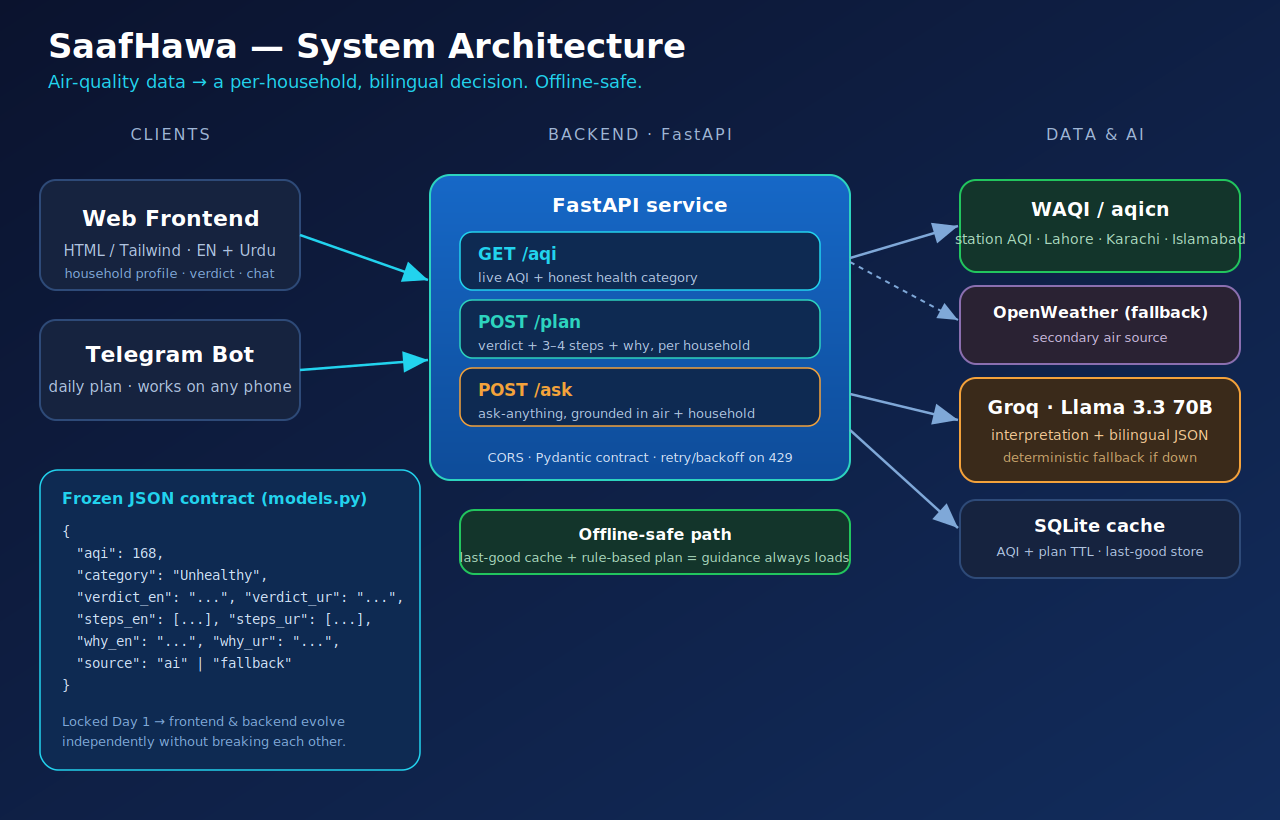
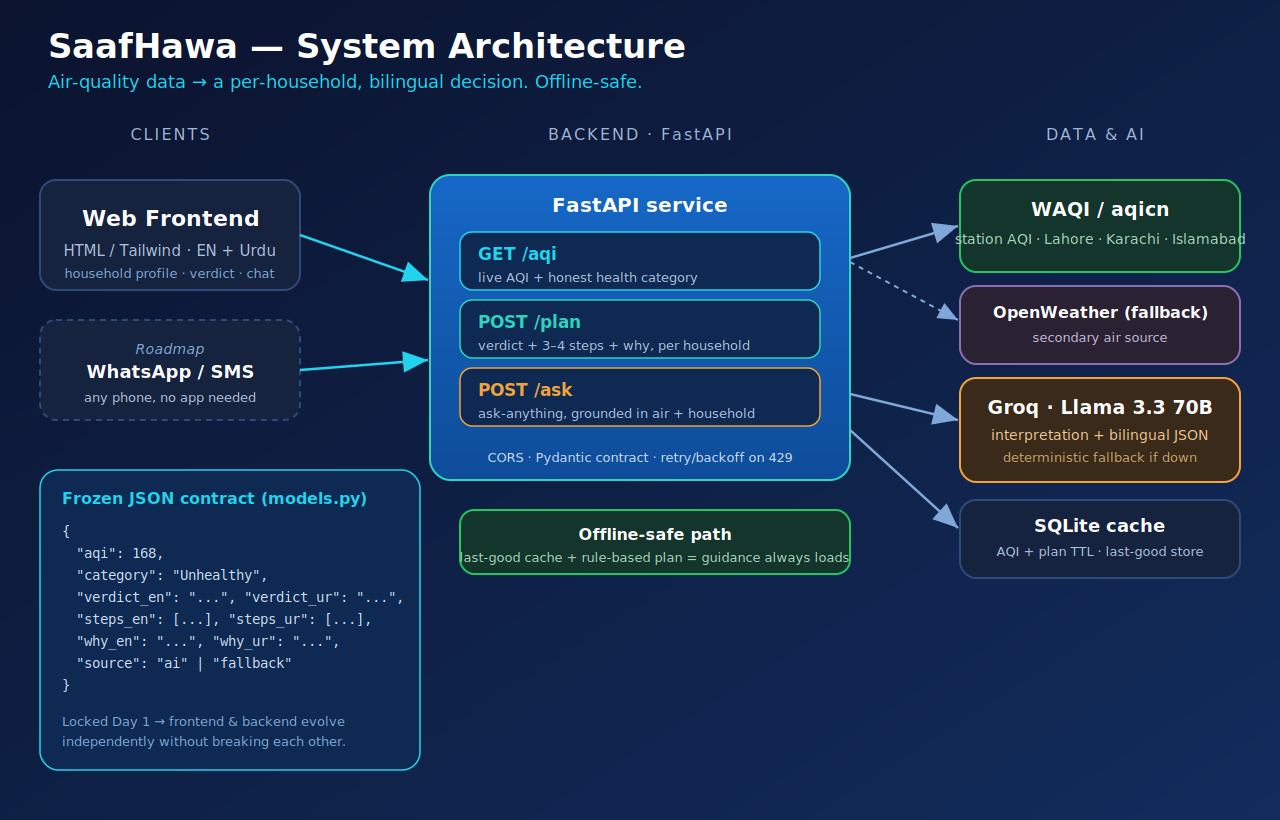
Pakistan-only data guard; single Location select; remove Telegram from materials; update README

Changed region(s): [[0.0312, 0.3963, 0.2188, 0.5183]]

diff --git a/README.md b/README.md
@@ -3,12 +3,13 @@
 # SaafHawa 🌫️ → ✅
 ### صاف ہوا
 
-**Air-quality data, turned into a decision you can act on — in your language.**
+**Air-quality apps show a number. SaafHawa tells you what to do.**
 
-![Built with FastAPI](https://img.shields.io/badge/backend-FastAPI-009688)
+![Backend](https://img.shields.io/badge/backend-FastAPI-009688)a
 ![AI](https://img.shields.io/badge/AI-Groq%20·%20Llama%203.3%2070B-F4A23B)
 ![Bilingual](https://img.shields.io/badge/EN%20+%20اردو-bilingual-16B6D4)
-![License](https://img.shields.io/badge/license-MIT-blue)
+![Pakistan](https://img.shields.io/badge/built%20for-Pakistan-0F7268)
+![Hackathon](https://img.shields.io/badge/AI%20for%20Civic%20Innovation-2026-1668C7)
 
 </div>
 
@@ -21,68 +22,89 @@ Built for caregivers in air-sensitive households across **Lahore, Karachi & Isla
 families with young children, elderly members, pregnant members, or people with
 pollen, asthma, heart/lung conditions.
 
-> Submitted to the **AI for Civic Innovation Hackathon 2026** (Code for Pakistan ×
-> Grey Software × Scrimba × FAST NUCES Islamabad).
-> **Themes:** Technology for Civic Good · Open Data & Access to Information.
+---
+
+## 💡 Inspiration
+ 
+Pakistan's cities sit near the top of every "most polluted air" list in the world,
+and the people who pay the price are the ones least equipped to read the data —
+parents deciding on a school run, an elderly relative breathing through a smoggy
+morning, a pregnant woman, a delivery rider working outdoors all day, anyone with
+asthma or pollen allergy.
+ 
+Public AQI data already exists. The gap isn't measurement — it's **interpretation**.
+Today the answer to *"is the air safe for my child right now?"* is a three-digit
+number and a color, in English, with no idea what to actually do. SaafHawa closes
+that last mile.
+ 
+> **Themes:** Technology for Civic Good · Open Data & Access to Information
+> **Hackathon:** AI for Civic Innovation 2026 — Code for Pakistan × FAST NUCES Islamabad × Grey Software × Scrimba
 
 ---
 
 ## ✨ Features
 
-- 📍 **Area-level AQI** for Lahore, Karachi & Islamabad with honest US-EPA health categories
-- 👨👩👧 **Household profiles** — child · elderly · pregnant · allergies · heart/lung · outdoor worker — each changes the advice
-- 🤖 **Live AI action plan** — one-line verdict + 3–4 concrete steps + why
-- 🌐 **Bilingual by default** — every output in English **and** Urdu (Nastaliq)
+- 📍 **Live AQI** for Lahore · Karachi · Islamabad with honest US-EPA categories
+- 👨👩👧 **Household profiles** — child, elderly, pregnant, allergies, heart/lung, outdoor worker — each reshapes the advice
+- 🤖 **Bilingual AI action plan** — one-line verdict + 3–4 concrete steps + the why
+- 🌐 **English and Urdu** by default, rendered in Nastaliq
 - 💬 **Ask-anything chat** — grounded in your air level and household
-- 🛟 **Offline-safe** — graceful fallback so guidance always loads, even if APIs are down
+- 🛟 **Offline-safe** — graceful bilingual fallback so guidance always loads
+- 🇵🇰 **Pakistan-only data** — a 3-layer guard rejects foreign stations (no cross-border leaks)
 
 ## 🏗️ Architecture
 
 ```
-Browser / Telegram  →  FastAPI backend  →  WAQI air data  ┐
-                          /aqi /plan /ask                 ├→ SQLite cache
+Browser (3 pages)  →  FastAPI backend  →  WAQI air data  ┐
+                          /aqi /plan /ask                 ├→ SQLite cache (PK-only)
                                  ↓                         ┘
                        Groq · Llama 3.3 70B  →  bilingual verdict JSON (EN + اردو)
 ```
 
-Three endpoints, one frozen JSON contract (see `backend/models.py`), with a
-deterministic fallback at every hop so a demo never blanks.
-
-Full diagram: [`assets/architecture.png`](assets/architecture.png) · Request flow: [`assets/workflow.png`](assets/workflow.png)
+Three endpoints, one frozen JSON contract (`backend/models.py`), and a
+deterministic fallback at every hop so the demo never blanks.
+ 
+Full diagrams: [`assets/architecture.png`](assets/architecture.png) · [`assets/workflow.png`](assets/workflow.png)
+ 
 
 ## 🚀 Quick start
 
 > Tested on Python 3.10 – 3.13 (Windows, macOS, Linux).
 
-```bash
-git clone https://github.com/<your-handle>/saafhawa.git
-cd saafhawa/backend
-
+### 1. Backend
+ 
+```powershell
+cd backend
 python -m venv .venv
-# Windows PowerShell:
-.venv\Scripts\Activate.ps1
-# macOS / Linux:
-source .venv/bin/activate
-
+.venv\Scripts\Activate.ps1                # macOS/Linux: source .venv/bin/activate
 python -m pip install -r requirements.txt
-copy .env.example .env       # macOS/Linux: cp .env.example .env
+copy .env.example .env                    # paste tokens (optional)
 python -m uvicorn main:app --reload --port 8000
 ```
 
 Open **http://localhost:8000/docs** for live, clickable API docs.
 
-> **No tokens yet? It still runs.** `/aqi` serves an offline estimate and `/plan`
-> + `/ask` use a deterministic bilingual fallback — so the frontend always renders.
-
-### Free tokens (no card)
+### 2. Frontend
+ 
+In a **second** terminal:
+ 
+```powershell
+cd frontend
+python -m http.server 9000
+```
+ 
+Open **http://localhost:9000** → Home page. Click **Launch the app →** for the tool.
+ 
+### Free tokens (no card needed)
+ 
 | Service | Where | Used for |
 |---|---|---|
-| WAQI / aqicn | https://aqicn.org/data-platform/token/ | real station AQI |
+| WAQI / aqicn | https://aqicn.org/data-platform/token/ | real Pakistani station AQI |
 | Groq (Llama 3.3 70B) | https://console.groq.com/keys | bilingual AI interpretation |
-| OpenWeather *(optional)* | https://openweathermap.org/api/air-pollution | fallback air source |
-
-Paste the keys into `backend/.env`, then restart uvicorn.
-
+ 
+> No tokens? **It still runs.** Both the API and the frontend use a deterministic
+> bilingual fallback so guidance is shown even with zero internet.
+ 
 ## 📡 API
 
 | Method | Path | Body | Returns |
@@ -90,19 +112,21 @@ Paste the keys into `backend/.env`, then restart uvicorn.
 | `GET` | `/aqi?area=lahore` | – | `AqiResponse` |
 | `POST` | `/plan` | `{ area, household }` | `PlanResponse` |
 | `POST` | `/ask` | `{ area, household, question }` | `AskResponse` |
-
-`household` flags (all optional, default `false`): `child` · `elderly` · `pregnant` · `allergies` · `heart_lung` · `outdoor_worker`.
-
+ 
+**Areas** (Pakistan only): `lahore` · `karachi` · `islamabad`
+ 
+**Household flags** (all optional, default `false`):
+`child` · `elderly` · `pregnant` · `allergies` · `heart_lung` · `outdoor_worker`
+ 
 **Try it**
 ```bash
 curl -X POST http://localhost:8000/plan ^
   -H "Content-Type: application/json" ^
   -d "{\"area\":\"lahore\",\"household\":{\"child\":true,\"allergies\":true}}"
 ```
-
+ 
 <details>
 <summary>Sample response</summary>
-
 ```json
 {
   "area": "lahore",
@@ -110,65 +134,101 @@ curl -X POST http://localhost:8000/plan ^
   "category": "Unhealthy",
   "verdict_en": "Keep your child indoors until noon.",
   "verdict_ur": "بچے کو دوپہر تک گھر کے اندر رکھیں۔",
-  "steps_en": ["Close windows during peak hours", "Mask the school run", "Rinse off pollen after coming inside"],
-  "steps_ur": ["صبح و شام کھڑکیاں بند رکھیں", "اسکول جاتے وقت ماسک پہنائیں", "اندر آنے کے بعد چہرہ دھوئیں"],
+  "steps_en": ["Close windows during peak hours", "Mask the school run",
+               "Rinse off pollen after coming inside"],
+  "steps_ur": ["صبح و شام کھڑکیاں بند رکھیں", "اسکول جاتے وقت ماسک پہنائیں",
+               "اندر آنے کے بعد چہرہ دھوئیں"],
   "why_en": "Sensitive members react to fine particles well before healthy adults feel anything.",
   "why_ur": "باریک ذرات صحت مند بالغ سے پہلے حساس افراد کو متاثر کرتے ہیں۔",
   "source": "ai"
 }
 ```
-
+ 
 </details>
+---
 
-## 🧠 The AI part
+## 🧠 The AI Integration
 
-Groq's Llama 3.3 70B (OpenAI-compatible API) interprets the AQI in context of a
-specific household and emits a strict bilingual verdict JSON. Why AI fits here:
-turning a number into safe, *personalized*, *plain-language* advice — in two
-languages, including natural Urdu — is a reasoning + NLG problem that rules
-can't cover at the needed nuance and fluency. If the LLM is unreachable, a
-deterministic rule-based plan still returns useful bilingual guidance — so the
-service degrades gracefully and never goes blank.
+ 
+[Groq's Llama 3.3 70B](https://console.groq.com/) (OpenAI-compatible API)
+interprets the AQI in context of a specific household and emits a strict
+bilingual verdict JSON. Why AI fits here: turning a number into safe,
+*personalized*, *plain-language* advice — in two languages, including natural
+Urdu — is a reasoning + NLG problem that rules can't cover at the needed
+nuance and fluency. If the LLM is unreachable, a deterministic rule-based plan
+still returns useful bilingual guidance — so the service degrades gracefully
+and never goes blank.
+ 
+---
 
 ## 📁 Project structure
 
 ```
 saafhawa/
-├── backend/
-│   ├── main.py           # FastAPI app — /aqi /plan /ask
-│   ├── aqi.py            # WAQI → OpenWeather → last-good fallback
-│   ├── llm.py            # Groq Llama 3.3 70B + deterministic fallback
-│   ├── cache.py          # SQLite TTL + last-good store
-│   ├── config.py         # env / tokens / area mapping
-│   ├── models.py         # 🔒 frozen JSON contract (Pydantic)
+├── backend/                # FastAPI service
+│   ├── main.py             #   /aqi · /plan · /ask
+│   ├── aqi.py              #   WAQI + Pakistan-only 3-layer guard
+│   ├── llm.py              #   Groq Llama 3.3 70B + deterministic fallback
+│   ├── cache.py            #   SQLite TTL + last-good store
+│   ├── config.py           #   env / tokens / supported areas
+│   ├── models.py           #   🔒 frozen JSON contract (Pydantic)
 │   ├── requirements.txt
 │   └── .env.example
-├── assets/               # architecture, workflow, thumbnails, cover
-├── HANDOFF_OwnerB.md     # frontend / UX / submission guide
-├── SUBMISSION.md         # paste-ready Devpost text (all 6 reqs)
-├── SaafHawa_Pitch.pptx   # pitch deck
+│
+├── frontend/               # Static multi-page UI
+│   ├── index.html          #   Home (landing)
+│   ├── app.html            #   The tool itself
+│   ├── about.html          #   Mission · team · partners
+│   ├── styles.css          #   Mint paper · teal · Nastaliq theme
+│   ├── shared.js           #   Nav + footer + team/partner renderers
+│   ├── app.js              #   Tool state + API calls + offline fallback
+│   ├── team.js             #   ★ EDIT team + partners here
+│   └── config.js           #   ★ EDIT API_BASE here
+│
+├── assets/                 # Architecture diagrams, thumbnails, deck source
+├── SaafHawa_Pitch.pptx     # 7-slide pitch deck (speaker notes included)
+├── SUBMISSION.md           # Paste-ready Devpost text
+├── DEPLOY.md               # Local-run + ngrok guide
 └── README.md
 ```
-
-## 🗺️ Roadmap
+ 
+---
+ 
+## 🗺️ Next Steps
 
 Live low-cost sensor integration · WhatsApp / SMS delivery · next-day forecast ·
 more cities · additional local languages.
 
-## 💡 Inspiration
+---
 
-Pakistan's cities sit near the top of every "most polluted air" list in the world,
-and the people who pay the price are the ones least equipped to read the data —
-parents deciding on a school run, an elderly relative breathing through a smoggy
-morning, a pregnant woman, a delivery rider working outdoors all day, anyone with
-asthma or pollen allergy.
+## 🙏 Acknowledgements
+ 
+SaafHawa exists because of the open work of many others. Sincere thanks to:
+ 
+- **[Code for Pakistan](https://codeforpakistan.org/)** — for organizing the AI
+  for Civic Innovation Hackathon 2026 and championing civic tech across the country.
+- **[FAST NUCES Islamabad](https://www.nu.edu.pk/)** — for hosting the hackathon
+  and providing the space and community.
+- **[Grey Software](https://greysoftware.org/)** and **[Scrimba](https://scrimba.com/)**
+  — for partnering with Code for Pakistan and supporting builders.
+- **The [WAQI / aqicn](https://aqicn.org/) team** — for making global air-quality
+  data freely accessible. SaafHawa is built directly on top of their open API.
+- **[Groq](https://groq.com/) and the Llama team at Meta** — for the
+  Llama 3.3 70B model and a generous free tier that made the AI layer possible
+  at zero cost.
+- **[FastAPI](https://fastapi.tiangolo.com/), [Pydantic](https://docs.pydantic.dev/), [Uvicorn](https://www.uvicorn.org/)**
+  — the Python toolchain holding the backend together.
+- **The [Noto Nastaliq Urdu](https://fonts.google.com/noto/specimen/Noto+Nastaliq+Urdu)
+  team at Google** — for the typeface that lets Urdu render the way it should.
+- **The U.S. State Department Air Quality Program** — whose embassy air monitors
+  in Lahore, Karachi and Islamabad provide the ground-truth readings SaafHawa
+  reads through WAQI.
+- **The Pakistani caregivers, parents, and people living with allergies and
+  asthma** — whose daily decisions made the problem visible. SaafHawa is for you.
 
-Public AQI data already exists. The gap isn't measurement — it's *interpretation*.
-Today the answer to "is the air safe for my child right now?" is a three-digit
-number and a color, in English, with no idea what to actually do. SaafHawa closes
-that last mile: it takes the open data citizens already pay for and turns it into
-a clear, personal, bilingual decision — what to do, why it matters, in the
-language people actually think in.
+Built with care during the AI for Civic Innovation Hackathon 2026.
+
+---
 
 ## 📄 License
 